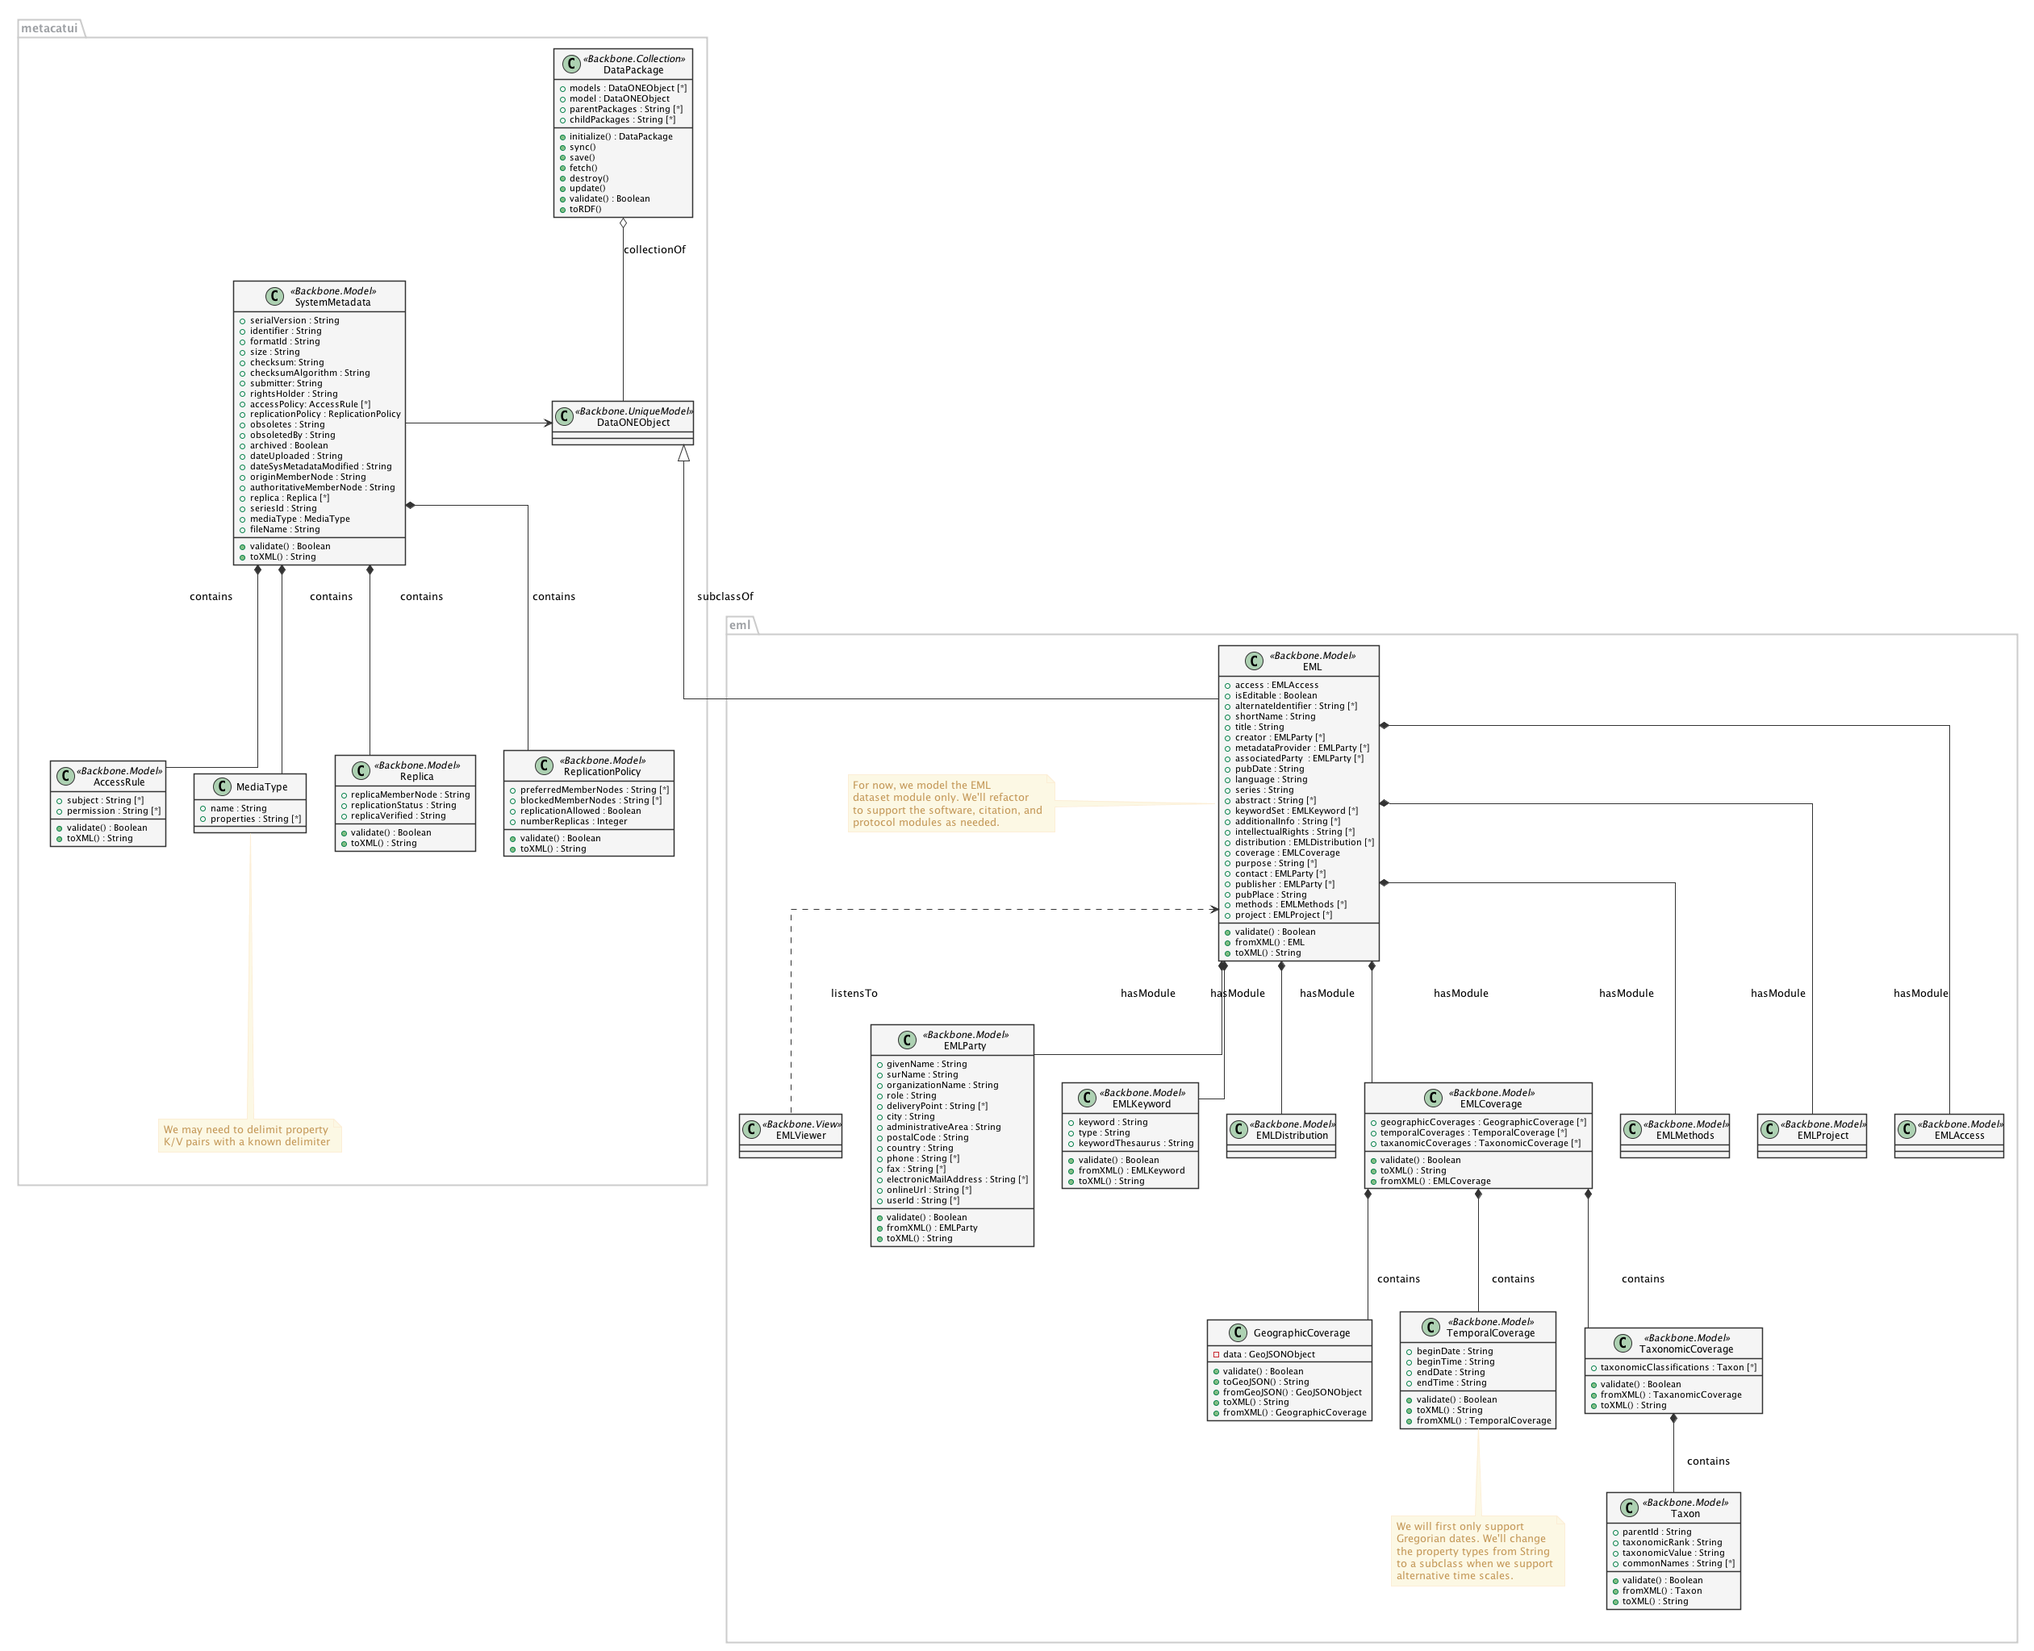
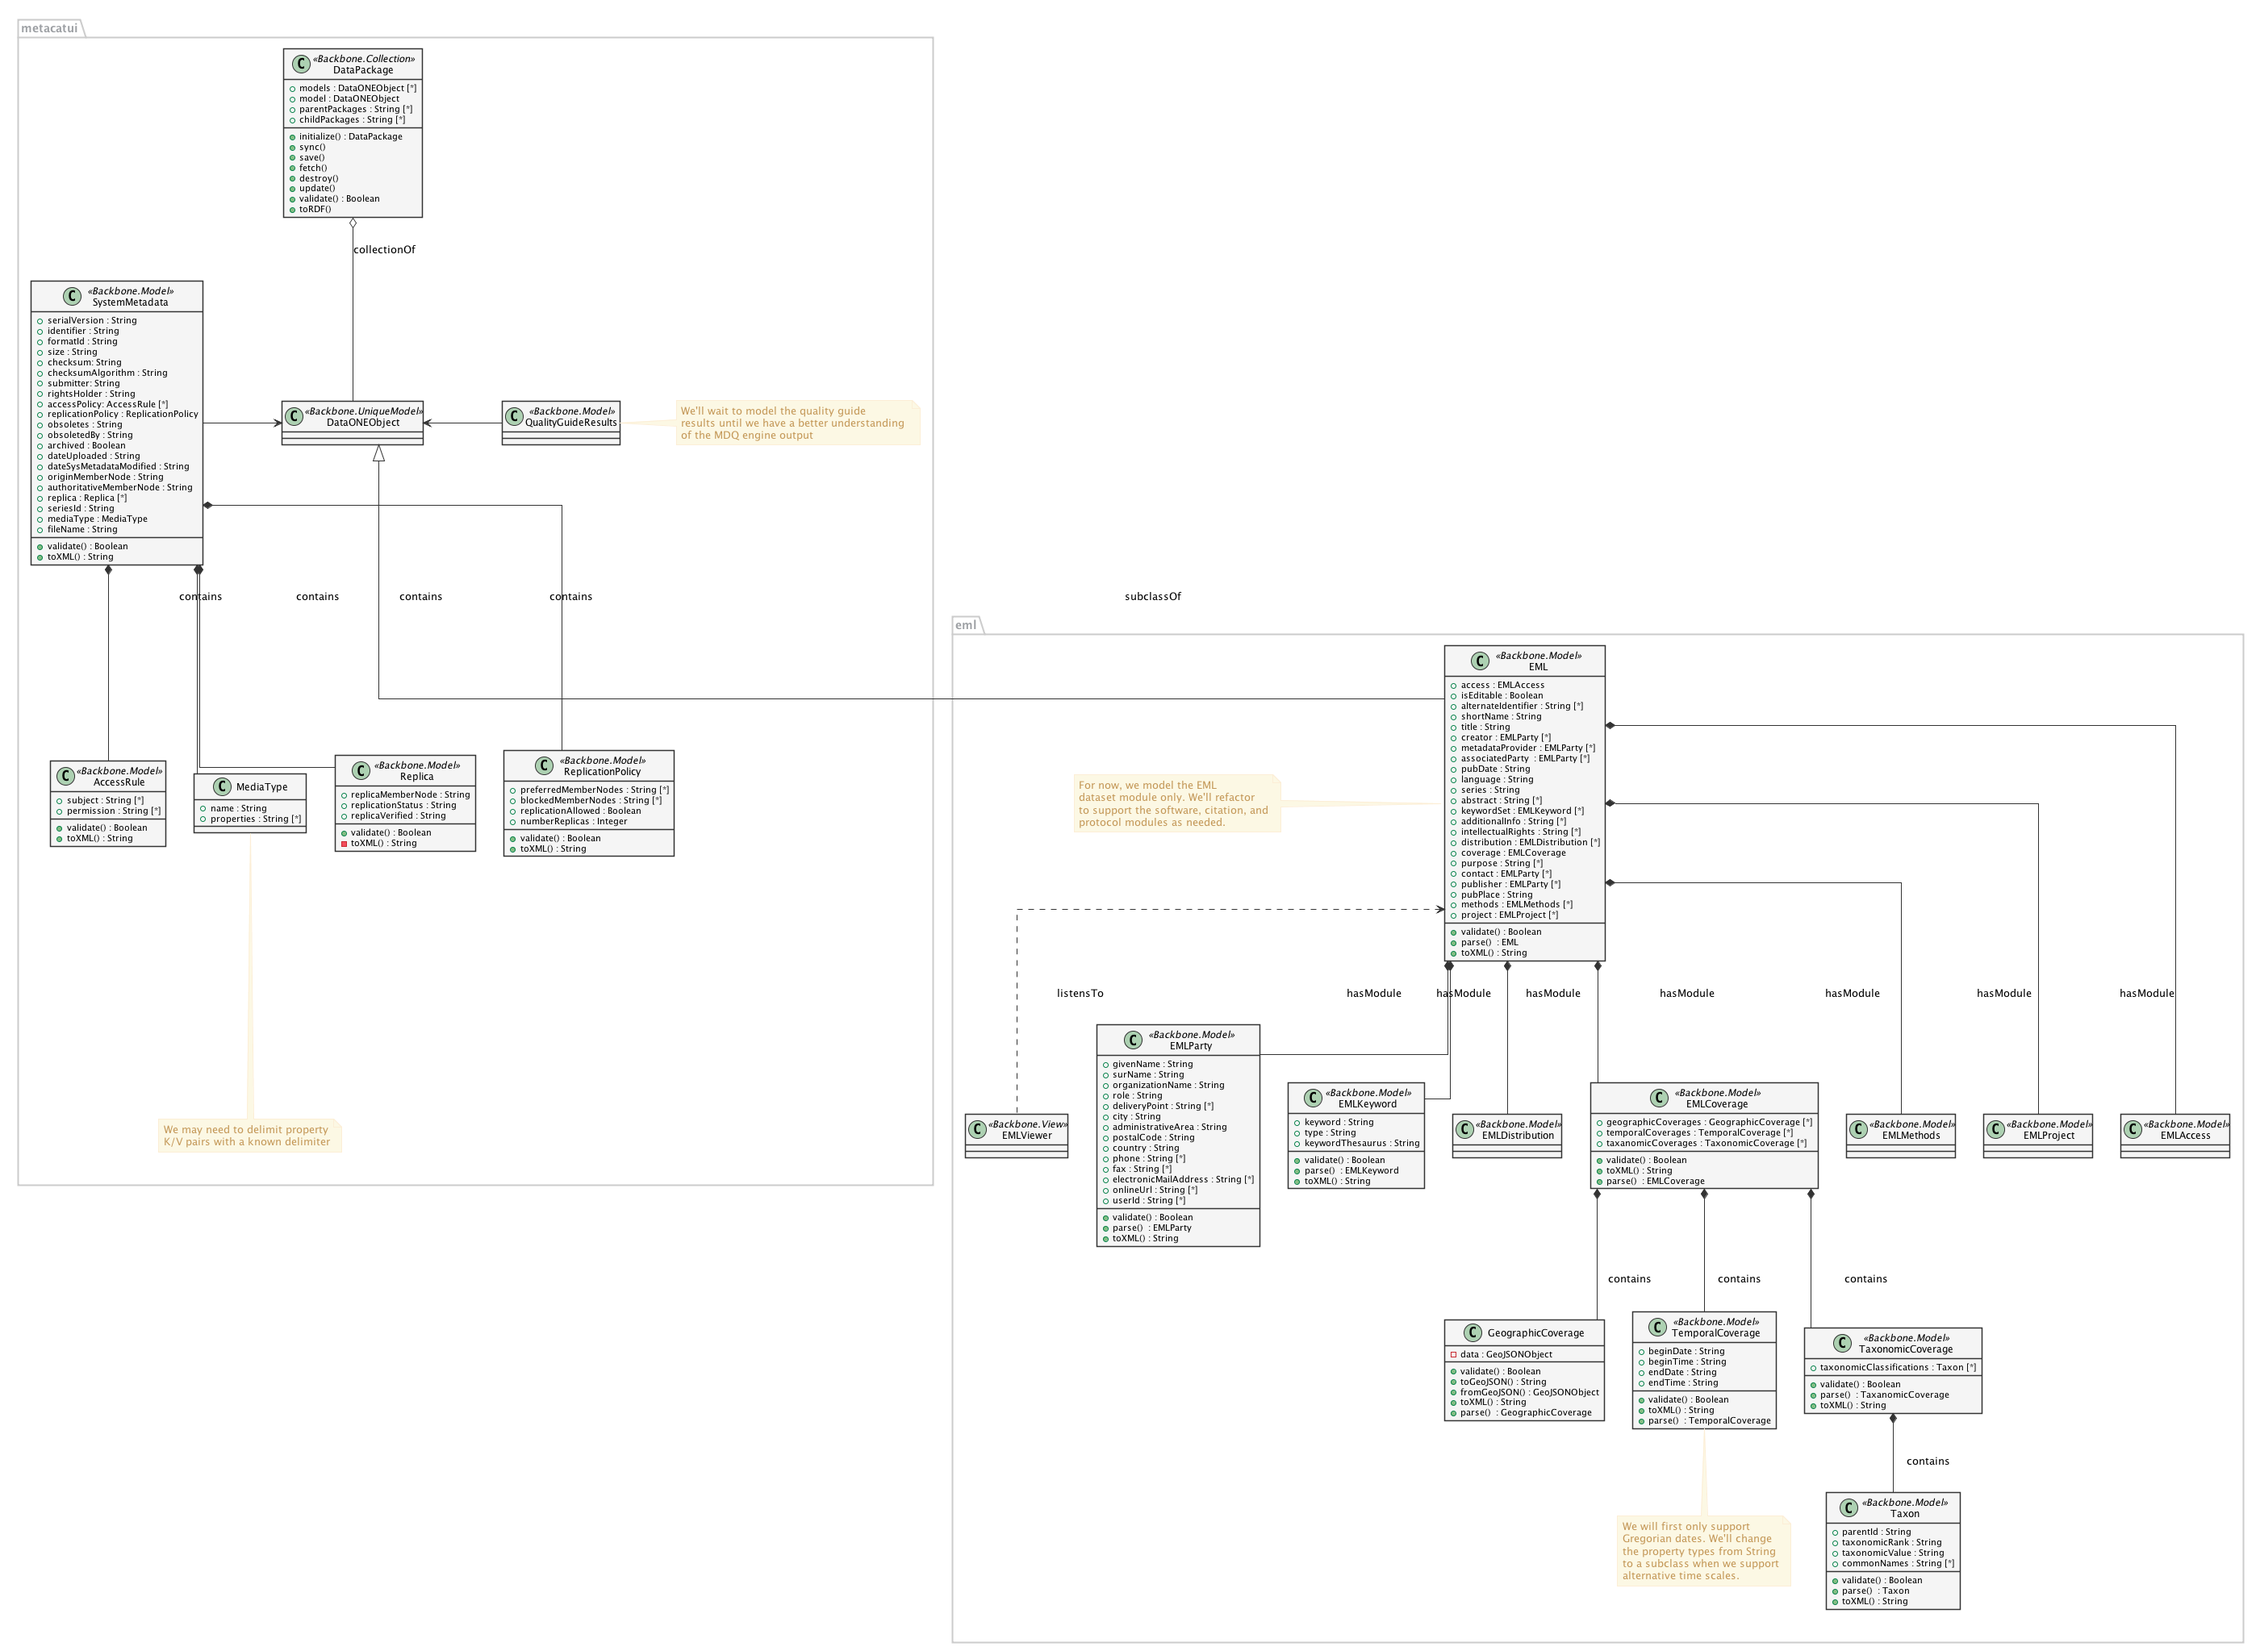
Change fromXML() to parse() since that's the Backbone method we need to override.

diff --git a/metacatui/docs/design/editor/editor-class-diagram.rst b/metacatui/docs/design/editor/editor-class-diagram.rst
@@ -49,7 +49,7 @@ Class Diagram
            + replicationStatus : String
            + replicaVerified : String
            + validate() : Boolean
-           + toXML() : String
+           - toXML() : String
          }
          
          class ReplicationPolicy <<Backbone.Model>> {
@@ -96,6 +96,15 @@ Class Diagram
          + toXML() : String
        }
        
+       class QualityGuideResults <<Backbone.Model>> {
+       }
+       
+       note right
+         We'll wait to model the quality guide 
+         results until we have a better understanding 
+         of the MDQ engine output
+       end note
+       
        class DataONEObject <<Backbone.UniqueModel>> {
        }
        
@@ -141,7 +150,7 @@ Class Diagram
          + methods : EMLMethods [*]
          + project : EMLProject [*]
          + validate() : Boolean
-         + fromXML() : EML
+         + parse()  : EML
          + toXML() : String
        }
        
@@ -171,7 +180,7 @@ Class Diagram
          + onlineUrl : String [*]
          + userId : String [*]
          + validate() : Boolean
-         + fromXML() : EMLParty
+         + parse()  : EMLParty
          + toXML() : String
        }
        
@@ -180,7 +189,7 @@ Class Diagram
          + type : String
          + keywordThesaurus : String
          + validate() : Boolean
-         + fromXML() : EMLKeyword
+         + parse()  : EMLKeyword
          + toXML() : String
        }
        
@@ -193,7 +202,7 @@ Class Diagram
          + taxanomicCoverages : TaxonomicCoverage [*]
          + validate() : Boolean
          + toXML() : String
-         + fromXML() : EMLCoverage
+         + parse()  : EMLCoverage
        }
        
        together {
@@ -203,7 +212,7 @@ Class Diagram
            + toGeoJSON() : String
            + fromGeoJSON() : GeoJSONObject
            + toXML() : String
-           + fromXML() : GeographicCoverage
+           + parse()  : GeographicCoverage
          }
          
          class TemporalCoverage <<Backbone.Model>> {
@@ -213,7 +222,7 @@ Class Diagram
            + endTime : String
            + validate() : Boolean
            + toXML() : String
-           + fromXML() : TemporalCoverage
+           + parse()  : TemporalCoverage
          }
          
          note bottom
@@ -227,7 +236,7 @@ Class Diagram
          class TaxonomicCoverage <<Backbone.Model>> {
            + taxonomicClassifications : Taxon [*]
            + validate() : Boolean
-           + fromXML() : TaxanomicCoverage
+           + parse()  : TaxanomicCoverage
            + toXML() : String
          }
          
@@ -237,7 +246,7 @@ Class Diagram
            + taxonomicValue : String
            + commonNames : String [*]
            + validate() : Boolean
-           + fromXML() : Taxon
+           + parse()  : Taxon
            + toXML() : String
          }
          
@@ -256,6 +265,7 @@ Class Diagram
      DataPackage o-- DataONEObject : collectionOf
      DataONEObject <|-- EML : "              subclassOf"
      DataONEObject <-right- SystemMetadata : describes
+     DataONEObject <-left- QualityGuideResults : describes
      SystemMetadata *-right- AccessRule : "                        contains"
      SystemMetadata *-- ReplicationPolicy : "    contains"
      SystemMetadata *-- Replica : "  contains"
